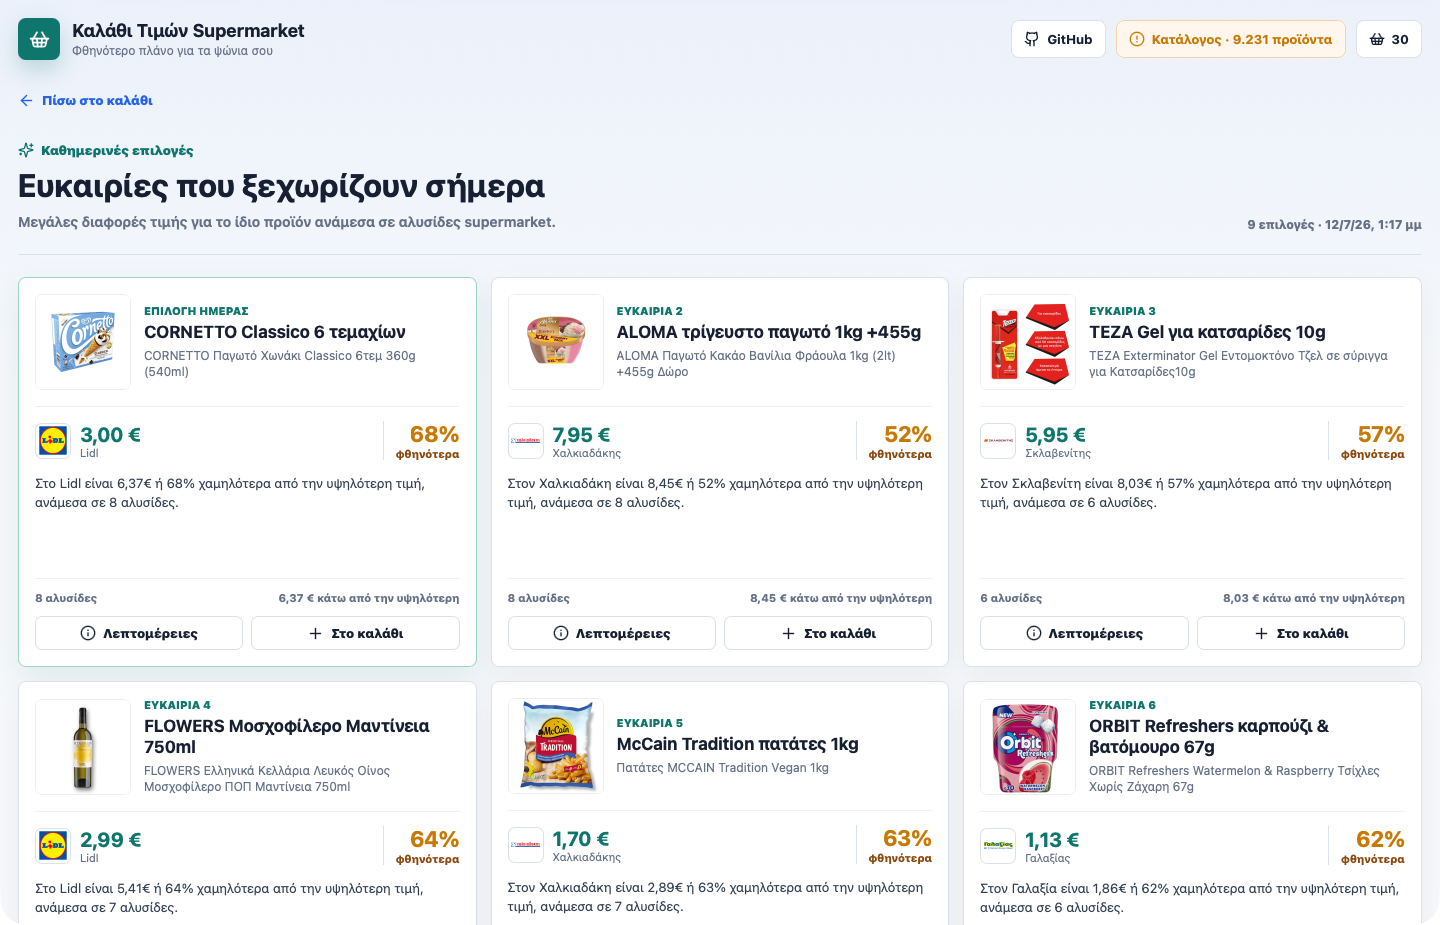
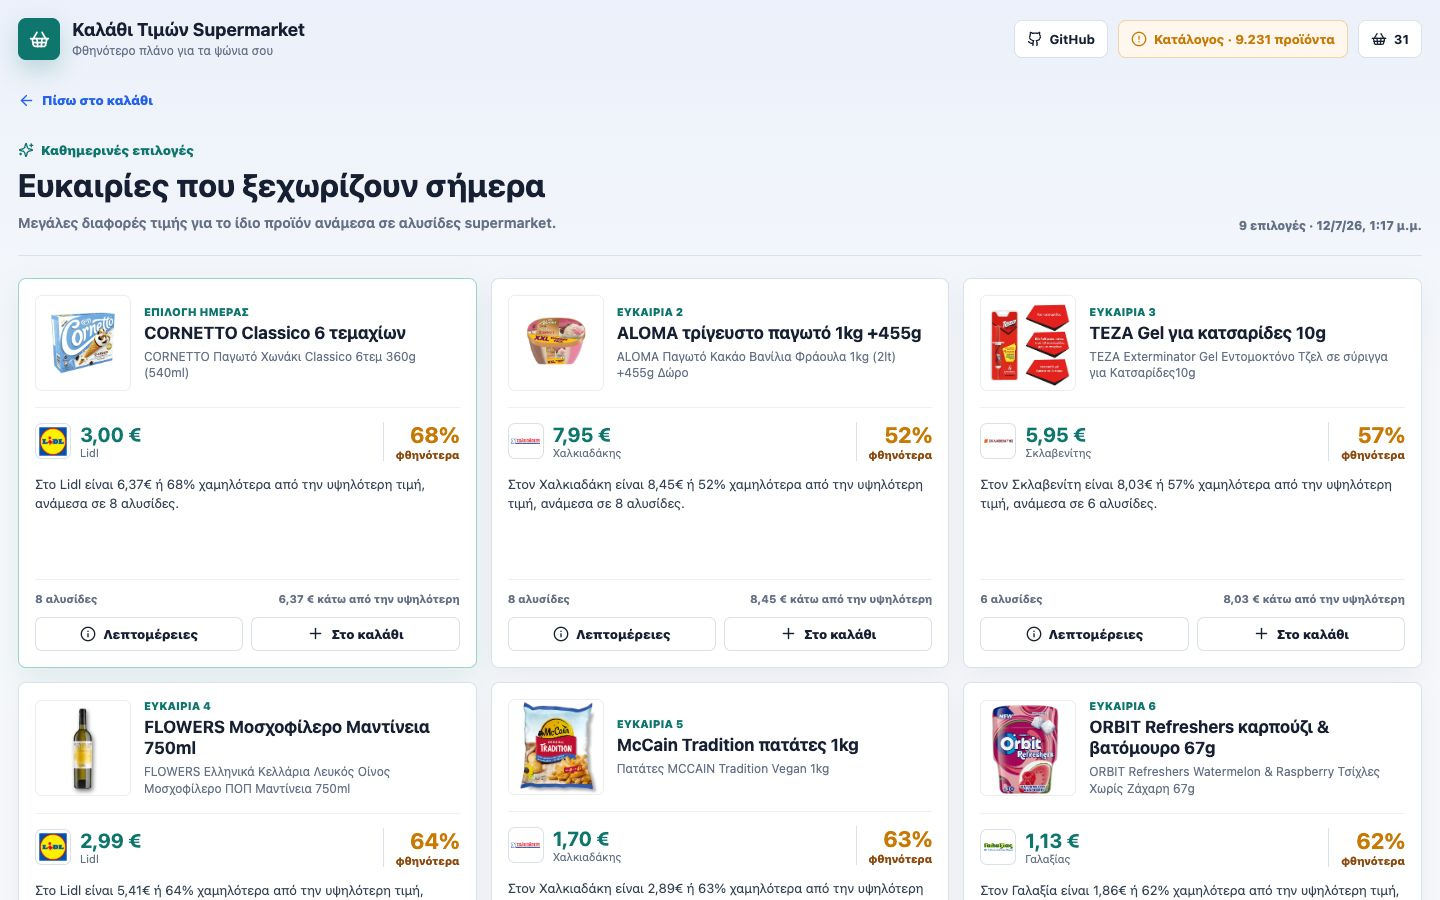
Refresh README screenshots for bargains feature

diff --git a/README.md b/README.md
@@ -159,13 +159,20 @@ The production React build uses the absolute subpath base `/demo/posokanei-baske
 
 ## Screenshots
 
-Desktop, with a four-stop optimized basket:
+Desktop homepage, with the featured daily product and the new
+`Περισσότερες ευκαιρίες` entry point:
 
-![Desktop app with a four-stop plan](screenshots/desktop.png)
+![Desktop app with the featured daily bargain and more-bargains button](screenshots/desktop.png)
 
-Mobile:
+Mobile homepage:
 
-![Mobile app](screenshots/mobile.png)
+![Mobile app with the featured daily bargain](screenshots/mobile.png)
+
+Expanded AI-assisted bargains on desktop and mobile:
+
+![Desktop expanded daily bargains page](screenshots/bargains.png)
+
+![Mobile expanded daily bargains page](screenshots/bargains-mobile.png)
 
 Product detail, with a larger image for checking the exact product:
 
